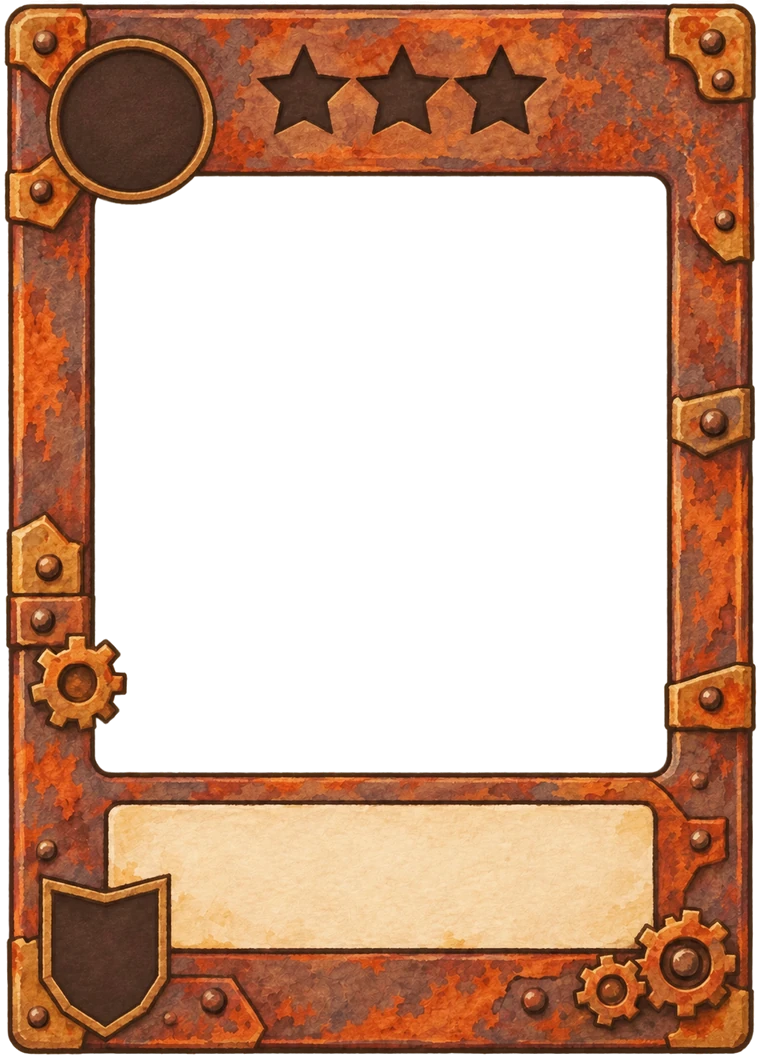
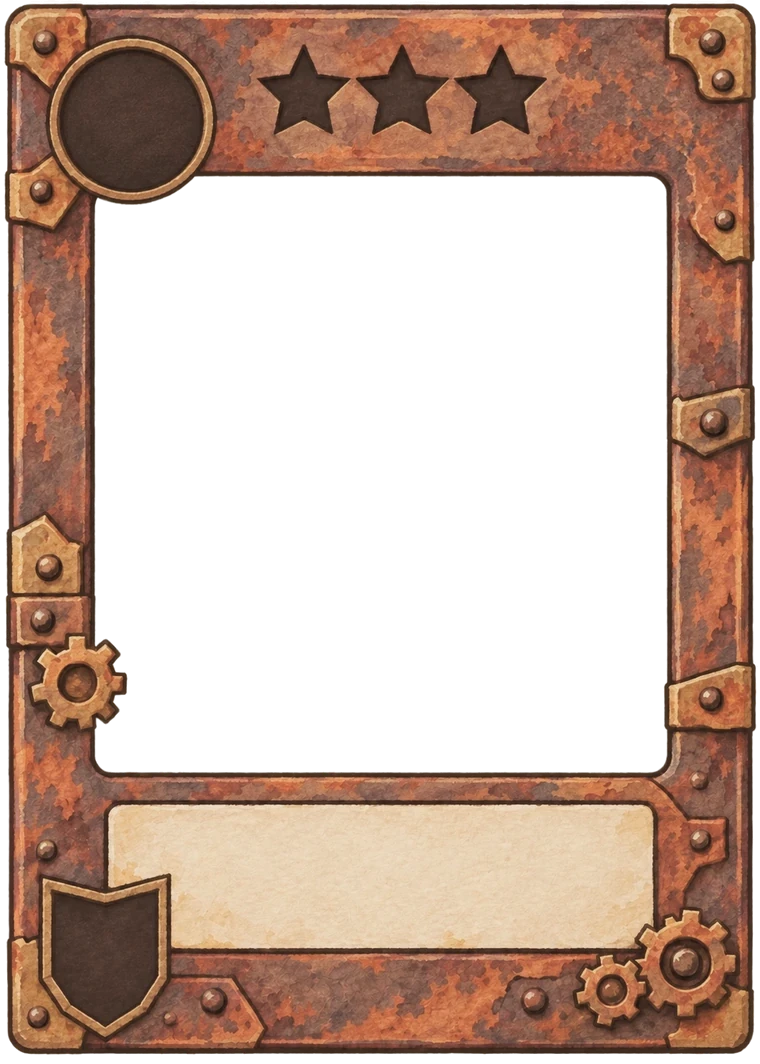
러스트 카드 틀 녹 채도 -28% (아트 바이블 2단계 시험) (#267)
- f_rust · f_rust_s1: 주황 · 빨강 녹 부분만 채도 ×0.72, 밝기 ×0.95 (양피지 · 별 · 방패 칸은 그대로)
- 캐시 갱신: ?v=f→g, ?v=a→b

Claude-Session: https://claude.ai/code/session_01SWajAh6yH4HvqBMmhp8pj4

Changed region(s): [[0.0, 0.0, 0.9987, 0.9925]]

diff --git a/index.html b/index.html
@@ -6062,12 +6062,12 @@ html.lmB #lm-title .pl-sel .pl-white{white-space:pre-line;text-align:center;line
    별 받침 가운데 38.7 · 51.4 · 64.2% (높이 8.4%) · 방패 5.2~21.9% × 82.3~97% · 이름판 13.2~87.3% × 75.8~89.3% */
 html.lmB body .card.dz{background:none!important;border:0!important;box-shadow:none!important}
 html.lmB body .card.dz .dzi[data-w] .dzb,html.lmB body .card.dz .dzi[data-fog] .dzb{border-radius:0!important;overflow:visible!important;box-shadow:none!important;
-  background:url(assets/ui/card/f_rust.webp?v=f) 0 0/100% 100% no-repeat,url(assets/ui/card/bg_rust.webp?v=g) 50.4% 36.8%/77% 57.6% no-repeat!important;filter:drop-shadow(0 3px 3px #000a)}
+  background:url(assets/ui/card/f_rust.webp?v=g) 0 0/100% 100% no-repeat,url(assets/ui/card/bg_rust.webp?v=g) 50.4% 36.8%/77% 57.6% no-repeat!important;filter:drop-shadow(0 3px 3px #000a)}
 html.lmB body .card.dz .dzi[data-w=neon] .dzb{background:url(assets/ui/card/f_neon.webp?v=f) 0 0/100% 100% no-repeat,url(assets/ui/card/bg_neon.webp?v=g) 50.4% 36.8%/77% 57.6% no-repeat!important}
 html.lmB body .card.dz .dzi[data-w=sky] .dzb{background:url(assets/ui/card/f_sky.webp?v=f) 0 0/100% 100% no-repeat,url(assets/ui/card/bg_sky.webp?v=g) 50.4% 36.8%/77% 57.6% no-repeat!important}
 html.lmB body .card.dz .dzi[data-fog] .dzb{background:url(assets/ui/card/fog.webp?v=h) 0 0/100% 100% no-repeat!important}
 /* (DHL 11-07 카드 정보 줄이기 B안) ★1 = 힘 육각 없는 틀 · 숫자는 번호 하나 — 상성으로 힘이 번호와 달라질 때(강해짐 · 약해짐)만 육각을 얹음. ★2 · ★3은 그대로 */
-html.lmB body .card.dz .dzi[data-w][data-st="1"] .dzb{background:url(assets/ui/card/f_rust_s1.webp?v=a) 0 0/100% 100% no-repeat,url(assets/ui/card/bg_rust.webp?v=g) 50.4% 36.8%/77% 57.6% no-repeat!important}
+html.lmB body .card.dz .dzi[data-w][data-st="1"] .dzb{background:url(assets/ui/card/f_rust_s1.webp?v=b) 0 0/100% 100% no-repeat,url(assets/ui/card/bg_rust.webp?v=g) 50.4% 36.8%/77% 57.6% no-repeat!important}
 html.lmB body .card.dz .dzi[data-w=neon][data-st="1"] .dzb{background:url(assets/ui/card/f_neon_s1.webp?v=a) 0 0/100% 100% no-repeat,url(assets/ui/card/bg_neon.webp?v=g) 50.4% 36.8%/77% 57.6% no-repeat!important}
 html.lmB body .card.dz .dzi[data-w=sky][data-st="1"] .dzb{background:url(assets/ui/card/f_sky_s1.webp?v=a) 0 0/100% 100% no-repeat,url(assets/ui/card/bg_sky.webp?v=g) 50.4% 36.8%/77% 57.6% no-repeat!important}
 html.lmB body .card.dz .dzi[data-w][data-st="1"] .dzpo:not(.up):not(.down),html.lmB body .card.dz .dzi[data-w][data-st="1"] .dzpw:not(.up):not(.down){display:none!important}
